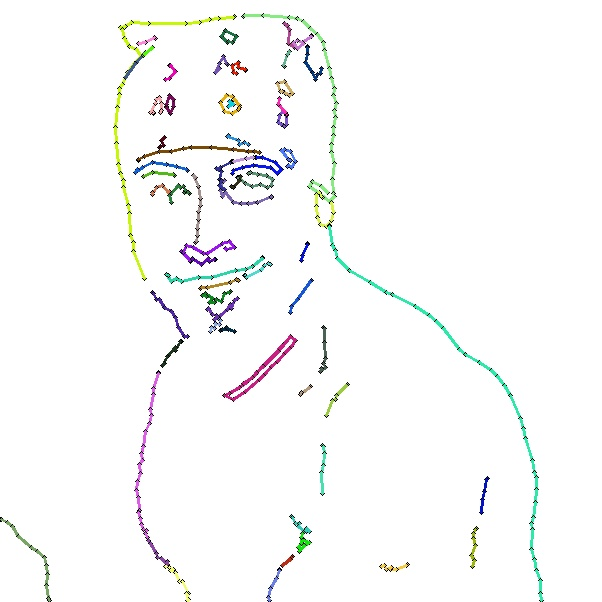
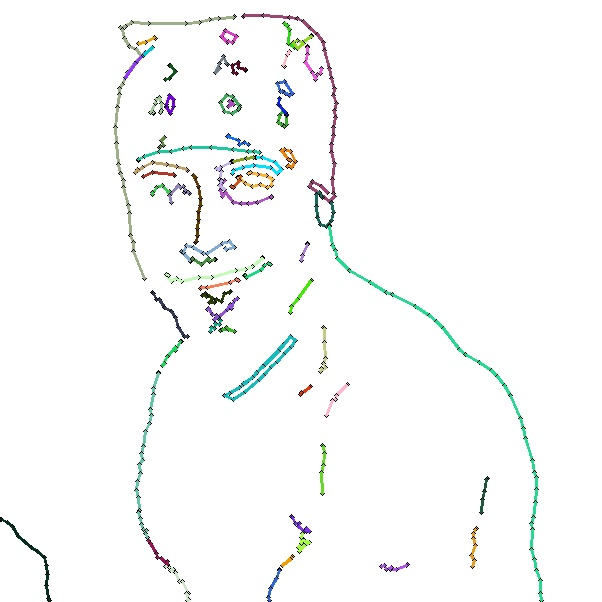
e

diff --git a/preview.py b/preview.py
@@ -2,5 +2,5 @@ from face_full_processing import process_face, plot_path_full
 
 segments, freq = process_face("ricardo.jpg", blur_radius = 17, lower_thresh = 0,
         upper_thresh = 40, splitDistance = 5, areaCut = 3,
-        minSegmentLen = 15, max_accel = 40, max_lr = 1, freq = 60, plot_steps = False)
+        minSegmentLen = 15, max_accel = 40, max_lr = 1, turn_vel_multiplier = 1, freq = 120, plot_steps = False)
 plot_path_full(segments)

diff --git a/full_path_planning.py b/full_path_planning.py
@@ -242,8 +242,8 @@ def plot_path_full(segments):
             points.append(point)
 
     plt.scatter(*zip(*points), s=2)
-    plt.xlim(0,50)
-    plt.ylim(-25,25)
+    # plt.xlim(0,50)
+    # plt.ylim(-25,25)
     plt.show()
     
 

diff --git a/arc_accel_testing.py b/arc_accel_testing.py
@@ -1,0 +1,1 @@
+def arc_calc(r, angle_delta, max_accel, vi, dt):
